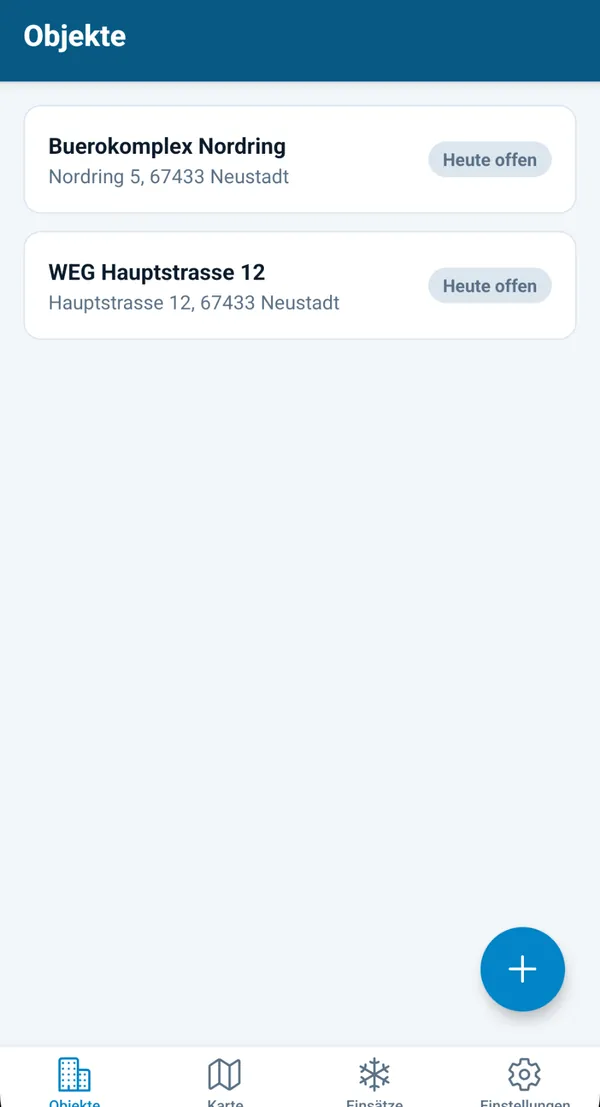
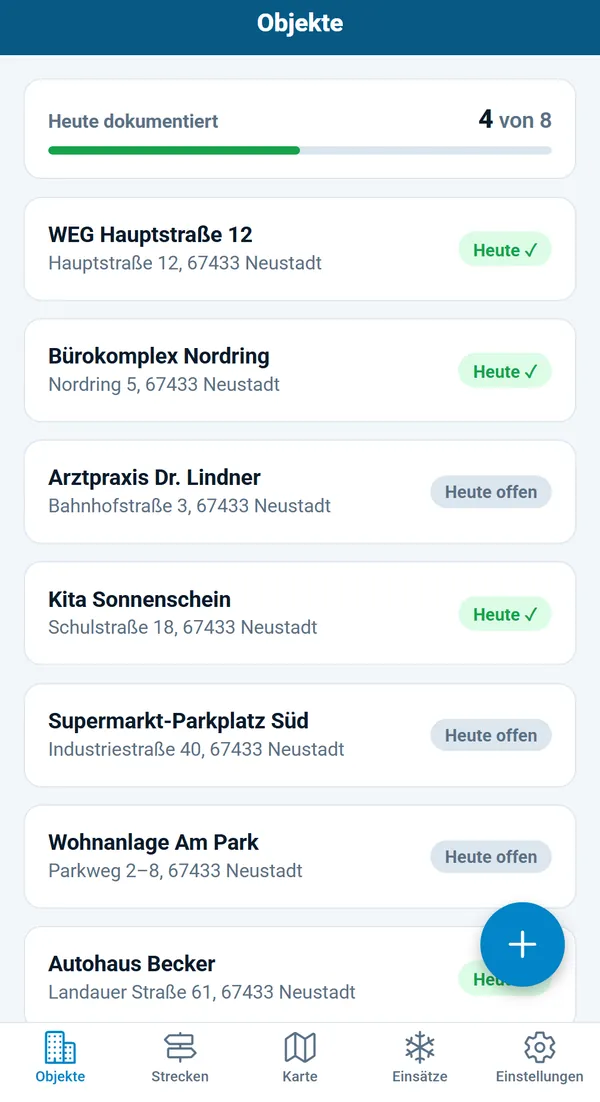
Startseite: neue App-Bilder sauber zugeschnitten (Einsatz + Strecke); Ratgeber Räum-/Streupflicht: nachweisbar statt gerichtsfest

diff --git a/ratgeber-raeum-streupflicht.html b/ratgeber-raeum-streupflicht.html
@@ -3,8 +3,8 @@
 <head>
   <meta charset="utf-8" />
   <meta name="viewport" content="width=device-width, initial-scale=1" />
-  <title>Räum- und Streupflicht: Wer haftet — und wie dokumentiert man den Winterdienst gerichtsfest? | WinterDex</title>
-  <meta name="description" content="Räum- und Streupflicht verständlich erklärt: Wer haftet bei einem Glatteisunfall, welche Uhrzeiten gelten, wie man die Streupflicht auf Mieter oder Dienstleister überträgt — und wie eine gerichtsfeste Winterdienst-Dokumentation aussieht." />
+  <title>Räum- und Streupflicht: Wer haftet — und wie dokumentiert man den Winterdienst nachweisbar? | WinterDex</title>
+  <meta name="description" content="Räum- und Streupflicht verständlich erklärt: Wer haftet bei einem Glatteisunfall, welche Uhrzeiten gelten, wie man die Streupflicht auf Mieter oder Dienstleister überträgt — und wie eine belastbare Winterdienst-Dokumentation aussieht." />
   <meta name="theme-color" content="#0A1520" />
   <!-- seo:start -->
   <link rel="icon" type="image/png" href="/winterdex-icon.png" />
@@ -12,17 +12,17 @@
   <meta property="og:type" content="website" />
   <meta property="og:site_name" content="WinterDex" />
   <meta property="og:locale" content="de_DE" />
-  <meta property="og:title" content="Räum- und Streupflicht: Wer haftet — und wie dokumentiert man den Winterdienst gerichtsfest? | WinterDex" />
-  <meta property="og:description" content="Räum- und Streupflicht verständlich erklärt: Wer haftet bei einem Glatteisunfall, welche Uhrzeiten gelten, wie man die Streupflicht auf Mieter oder Dienstleister überträgt — und wie eine gerichtsfeste Winterdienst-Dokumentation aussieht." />
+  <meta property="og:title" content="Räum- und Streupflicht: Wer haftet — und wie dokumentiert man den Winterdienst nachweisbar? | WinterDex" />
+  <meta property="og:description" content="Räum- und Streupflicht verständlich erklärt: Wer haftet bei einem Glatteisunfall, welche Uhrzeiten gelten, wie man die Streupflicht auf Mieter oder Dienstleister überträgt — und wie eine belastbare Winterdienst-Dokumentation aussieht." />
   <meta property="og:url" content="https://winterdex.dexware.app/ratgeber-raeum-streupflicht.html" />
   <meta property="og:image" content="https://winterdex.dexware.app/og-image.png" />
   <meta property="og:image:width" content="1200" />
   <meta property="og:image:height" content="630" />
   <meta name="twitter:card" content="summary_large_image" />
-  <meta name="twitter:title" content="Räum- und Streupflicht: Wer haftet — und wie dokumentiert man den Winterdienst gerichtsfest? | WinterDex" />
-  <meta name="twitter:description" content="Räum- und Streupflicht verständlich erklärt: Wer haftet bei einem Glatteisunfall, welche Uhrzeiten gelten, wie man die Streupflicht auf Mieter oder Dienstleister überträgt — und wie eine gerichtsfeste Winterdienst-Dokumentation aussieht." />
+  <meta name="twitter:title" content="Räum- und Streupflicht: Wer haftet — und wie dokumentiert man den Winterdienst nachweisbar? | WinterDex" />
+  <meta name="twitter:description" content="Räum- und Streupflicht verständlich erklärt: Wer haftet bei einem Glatteisunfall, welche Uhrzeiten gelten, wie man die Streupflicht auf Mieter oder Dienstleister überträgt — und wie eine belastbare Winterdienst-Dokumentation aussieht." />
   <meta name="twitter:image" content="https://winterdex.dexware.app/og-image.png" />
-  <script type="application/ld+json">{"@context":"https://schema.org","@type":"Article","headline":"Räum- und Streupflicht: Wer haftet — und wie dokumentiert man den Winterdienst gerichtsfest? | WinterDex","description":"Räum- und Streupflicht verständlich erklärt: Wer haftet bei einem Glatteisunfall, welche Uhrzeiten gelten, wie man die Streupflicht auf Mieter oder Dienstleister überträgt — und wie eine gerichtsfeste Winterdienst-Dokumentation aussieht.","image":"https://winterdex.dexware.app/og-image.png","inLanguage":"de","datePublished":"2026-07-09","dateModified":"2026-10-26","author":{"@type":"Organization","name":"Dexware","url":"https://dexware.app/"},"publisher":{"@type":"Organization","name":"Dexware","url":"https://dexware.app/"},"mainEntityOfPage":{"@type":"WebPage","@id":"https://winterdex.dexware.app/ratgeber-raeum-streupflicht.html"}}</script>
+  <script type="application/ld+json">{"@context":"https://schema.org","@type":"Article","headline":"Räum- und Streupflicht: Wer haftet — und wie dokumentiert man den Winterdienst nachweisbar? | WinterDex","description":"Räum- und Streupflicht verständlich erklärt: Wer haftet bei einem Glatteisunfall, welche Uhrzeiten gelten, wie man die Streupflicht auf Mieter oder Dienstleister überträgt — und wie eine belastbare Winterdienst-Dokumentation aussieht.","image":"https://winterdex.dexware.app/og-image.png","inLanguage":"de","datePublished":"2026-07-09","dateModified":"2026-10-26","author":{"@type":"Organization","name":"Dexware","url":"https://dexware.app/"},"publisher":{"@type":"Organization","name":"Dexware","url":"https://dexware.app/"},"mainEntityOfPage":{"@type":"WebPage","@id":"https://winterdex.dexware.app/ratgeber-raeum-streupflicht.html"}}</script>
   <!-- seo:end -->
   <meta name="robots" content="all" />
 
@@ -211,7 +211,7 @@
       },
       {
         "@type": "Question",
-        "name": "Wie sieht eine gerichtsfeste Dokumentation des Winterdienstes aus?",
+        "name": "Wie sieht eine belastbare Dokumentation des Winterdienstes aus?",
         "acceptedAnswer": {
           "@type": "Answer",
           "text": "Als belastbar gilt eine Dokumentation, die zeitnah zum Einsatz entsteht und nachträglich nicht unbemerkt verändert werden kann. Sinnvoll sind je Einsatz: Datum und genaue Uhrzeit, Ort, die durchgeführte Maßnahme (Räumen, Streuen, Kontrolle), das verwendete Streumittel sowie die Wetterlage. Fotos, ein GPS-Standort und ein unveränderlicher Zeitstempel erhöhen den Beweiswert deutlich. Eine nachträglich erstellte Sammelnotiz wirkt dagegen schwächer als lückenlose Einzeleinträge in Echtzeit."
@@ -261,7 +261,7 @@
   <div class="wrap">
     <div class="article-head">
       <span class="badge">Ratgeber · Winterdienst &amp; Recht</span>
-      <h1>Räum- und Streupflicht: Wer haftet — und wie dokumentiert man den Winterdienst <span class="hl">gerichtsfest</span>?</h1>
+      <h1>Räum- und Streupflicht: Wer haftet — und wie dokumentiert man den Winterdienst <span class="hl">nachweisbar</span>?</h1>
       <p class="land-hinweis" style="margin:16px 0 20px;padding:12px 16px;border:1px solid rgba(127,127,127,.35);border-radius:12px;font-size:14.5px;line-height:1.55"><strong>Gilt für welches Land?</strong> Dieser Ratgeber beschreibt die Rechtslage in <strong>Deutschland</strong>, wo die Gemeindesatzung die Details regelt. In <strong>Österreich</strong> gilt bundesweit § 93 StVO: Gehsteige zwischen 6 und 22 Uhr räumen und bei Glätte streuen (<a href="ratgeber-schneeraeumung-oesterreich.html">mehr dazu</a>). In der <strong>Schweiz</strong> regeln das Kantone und Gemeinden.</p>
       <p class="lead">
         Ein Sturz auf Glatteis, eine Anzeige, eine Schadensersatzforderung — und plötzlich zählt nur noch,
@@ -283,7 +283,7 @@
           <li><a href="#zeiten">Zu welchen Uhrzeiten gilt die Streupflicht?</a></li>
           <li><a href="#uebertragung">Übertragung auf Mieter und Dienstleister</a></li>
           <li><a href="#streitfall">Was im Streitfall zählt: die Beweislast</a></li>
-          <li><a href="#dokumentation">Wie gerichtsfeste Dokumentation aussieht</a></li>
+          <li><a href="#dokumentation">Wie belastbare Dokumentation aussieht</a></li>
           <li><a href="#faq">Häufige Fragen</a></li>
         </ol>
       </div>
@@ -421,9 +421,9 @@
         sollten, erklärt der Ratgeber <a href="ratgeber-glatteis-unfall-haftung.html">Glatteis-Unfall: Wer haftet?</a>.
       </p>
 
-      <h2 id="dokumentation">Wie gerichtsfeste Dokumentation aussieht</h2>
+      <h2 id="dokumentation">Wie belastbare Dokumentation aussieht</h2>
       <p>
-        „Gerichtsfest" ist kein magischer Stempel, sondern eine Eigenschaft: Die Dokumentation muss
+        Oft liest man von „gerichtsfester" Dokumentation. Das ist kein Stempel, den ein Werkzeug vergeben kann, sondern eine Frage der Eigenschaften: Die Dokumentation muss
         <strong>glaubwürdig, zeitnah und nachträglich nicht unbemerkt veränderbar</strong> sein. Ein
         handschriftliches Heft kann grundsätzlich helfen — aber es lässt sich rückdatieren, ergänzen oder
         „nachbessern", und genau das schwächt seinen Wert. Überzeugender ist eine Dokumentation, die von sich
@@ -505,7 +505,7 @@
           der praktische Weg, sich abzusichern.</p>
         </details>
         <details>
-          <summary>Wie sieht eine gerichtsfeste Dokumentation des Winterdienstes aus?</summary>
+          <summary>Wie sieht eine belastbare Dokumentation des Winterdienstes aus?</summary>
           <p>Als belastbar gilt eine Dokumentation, die zeitnah zum Einsatz entsteht und nachträglich nicht
           unbemerkt verändert werden kann. Sinnvoll sind je Einsatz: Datum und genaue Uhrzeit, Ort, die
           durchgeführte Maßnahme (Räumen, Streuen, Kontrolle), das verwendete Streumittel sowie die

diff --git a/index.html b/index.html
@@ -349,8 +349,8 @@
           <ul class="ticks"><li><svg class="i" viewBox="0 0 24 24" fill="none" stroke="currentColor" stroke-width="1.8" stroke-linecap="round" stroke-linejoin="round" aria-hidden="true"><path d="M20 6 9 17l-5-5" /></svg>30 Sekunden pro Einsatz</li><li><svg class="i" viewBox="0 0 24 24" fill="none" stroke="currentColor" stroke-width="1.8" stroke-linecap="round" stroke-linejoin="round" aria-hidden="true"><path d="M20 6 9 17l-5-5" /></svg>Einträge unveränderlich</li><li><svg class="i" viewBox="0 0 24 24" fill="none" stroke="currentColor" stroke-width="1.8" stroke-linecap="round" stroke-linejoin="round" aria-hidden="true"><path d="M20 6 9 17l-5-5" /></svg>GPS + Wetter automatisch</li></ul>
         </div>
         <div class="shots" aria-label="Screenshots der App">
-          <div class="phone a"><div class="screen" style="--bar:#075985"><img src="assets/shots/hero-1.webp" width="600" height="1107" alt="WinterDex: Einsatz dokumentieren mit Maßnahme, Streumittel und Beweisfoto" decoding="async"></div></div>
-          <div class="phone b"><div class="screen" style="--bar:#075985"><img src="assets/shots/hero-2.webp" width="600" height="1107" alt="WinterDex: Objekt mit Pflichtzeiten und Einsatz-Historie" decoding="async"></div></div>
+          <div class="phone a"><div class="screen" style="--bar:#075985"><img src="assets/shots/hero-1.webp" width="600" height="1102" alt="WinterDex: Einsatz dokumentieren mit GPS-Stempel, Maßnahme, Streumittel und Beweisfoto" decoding="async"></div></div>
+          <div class="phone b"><div class="screen" style="--bar:#075985"><img src="assets/shots/hero-2.webp" width="600" height="1102" alt="WinterDex: abgefahrene Strecke auf der Karte mit Abdeckung in Prozent, ausgelassener Abschnitt rot" decoding="async"></div></div>
         </div>
       </div>
     </div>
@@ -436,7 +436,7 @@
             <li><b>Nachweis teilen</b><p>PDF pro Monat oder Saison an Hausverwaltung oder Auftraggeber schicken.</p></li>
           </ol>
         </div>
-        <div class="rv"><div class="phone lazy"><div class="screen" style="--bar:#075985"><img src="assets/shots/ablauf.webp" width="600" height="1107" alt="WinterDex: Objekte mit offenen Räum- und Streupflichten" decoding="async" loading="lazy"></div></div></div>
+        <div class="rv"><div class="phone lazy"><div class="screen" style="--bar:#075985"><img src="assets/shots/ablauf.webp" width="600" height="1102" alt="WinterDex: Objekte mit offenen Räum- und Streupflichten" decoding="async" loading="lazy"></div></div></div>
       </div>
     </section>
 
